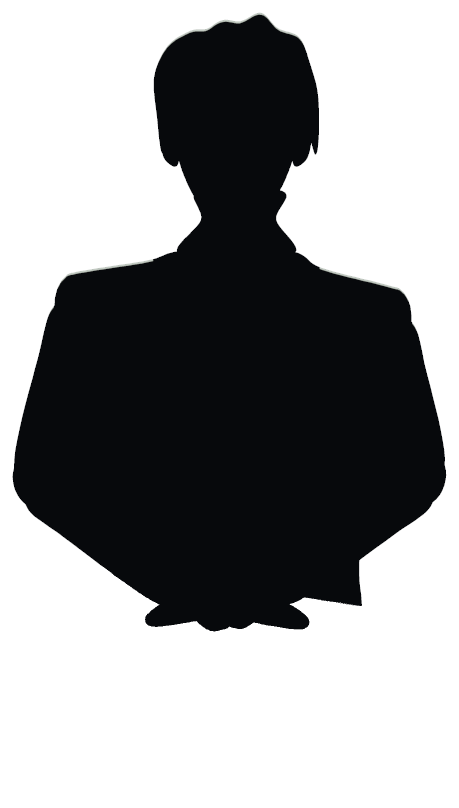
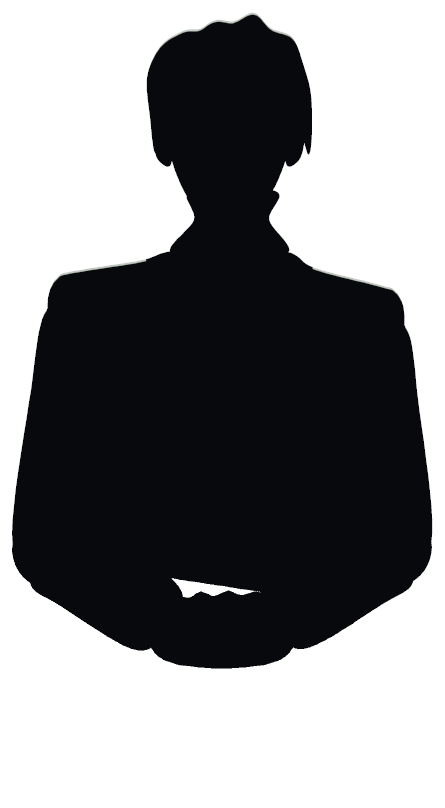
立牌：伊森的前臂壓在桌面上、交握的手有厚度，軀幹不收尖（設計師 #480）
Claude-Session: https://claude.ai/code/session_01G8FC15sLW17Be3jTGciJcG

diff --git a/tools/standee/figs.py b/tools/standee/figs.py
@@ -521,14 +521,22 @@ def ethan_seated():
     # head lowered as at the holding door; his own messy crown (ethan_cuffed). Below the table top the table hides him.
     sk = stance(weight='r', pelvis_x=-0.01, tilt=0.008, sh_y=1.44, sh_w=0.19, sh_tilt=0.01, waist=(0.148, 1.06))
     sit(sk, seat=0.45)
-    sk['trouser'] = (0.17, 0.12, 0.10); sk['arm'] = (0.098, 0.084, 0.066)
+    sk['trouser'] = (0.17, 0.12, 0.10); sk['arm'] = (0.10, 0.095, 0.088)   # thick forearms: they read as two bars on the table
     sk['shoulder_l'] = (sk['shoulder_l'][0] + 0.006, sk['shoulder_l'][1] + 0.012)   # hunched: shoulders lifted toward the ears
     sk['shoulder_r'] = (sk['shoulder_r'][0] - 0.006, sk['shoulder_r'][1] + 0.016)
-    # the forearms run toward the camera along the table top, so on the standee plane they drop below the elbows: the clasped hands
-    # land on the table's grey in front of its far edge (07b: the far edge sits at ~0.71 m on Ethan's plane), not on the wall above it
-    sk['elbow_l'] = (-0.214, 0.785); sk['elbow_r'] = (0.21, 0.787)
-    sk['wrist_l'] = (-0.06, 0.66); sk['wrist_r'] = (0.055, 0.663); sk['hand_dir_l'] = (1.0, -0.3); sk['hand_dir_r'] = (-1.0, -0.3)
-    sk['hand_scale'] = 0.92
+    # elbows on the table, just in front of its far edge (07b: the far edge sits at ~0.71 m on Ethan's plane), so the upper arms hang
+    # straight down the sides and the torso keeps its width down to the edge (the table hides the rest). The forearms run toward
+    # the camera along the table top, so on the standee plane they come in and down from the elbows as two bars on the table's grey,
+    # meeting at the clasped hands: one block with knuckles on top, thick enough to read as hands (07b review: not a thin X)
+    sk['elbow_l'] = (-0.2, 0.70); sk['elbow_r'] = (0.197, 0.702)
+    sk['wrist_l'] = (-0.075, 0.618); sk['wrist_r'] = (0.072, 0.62); sk['hand_dir_l'] = (1.0, -0.15); sk['hand_dir_r'] = (-1.0, -0.15)
+    sk['hand_scale'] = 0.55
+    cx, cy = 0.0, 0.603
+    clasp = [(cx - 0.088, cy + 0.012), (cx - 0.08, cy + 0.034), (cx - 0.058, cy + 0.044), (cx - 0.04, cy + 0.04), (cx - 0.026, cy + 0.047),
+             (cx - 0.01, cy + 0.042), (cx + 0.006, cy + 0.048), (cx + 0.022, cy + 0.043), (cx + 0.038, cy + 0.047), (cx + 0.056, cy + 0.043),
+             (cx + 0.078, cy + 0.034), (cx + 0.088, cy + 0.012), (cx + 0.082, cy - 0.02), (cx + 0.06, cy - 0.036), (cx + 0.02, cy - 0.042),
+             (cx - 0.02, cy - 0.042), (cx - 0.06, cy - 0.036), (cx - 0.082, cy - 0.02)]
+    sk.setdefault('extra', []).append(('arm', clasp))
     sk['shoes'] = [shoe_front(sk['ankle_l'][0], out=-0.02), shoe_front(sk['ankle_r'][0], out=0.02)]
     sk['neck_top'] = (sk['neck_top'][0], sk['neck_top'][1] - 0.04)                  # head lowered (as ethan_cuffed)
     hc = (sk['neck_top'][0] - 0.006, sk['neck_top'][1] + 0.07); sk['head'] = head(hc, w=0.150, h=0.228)
